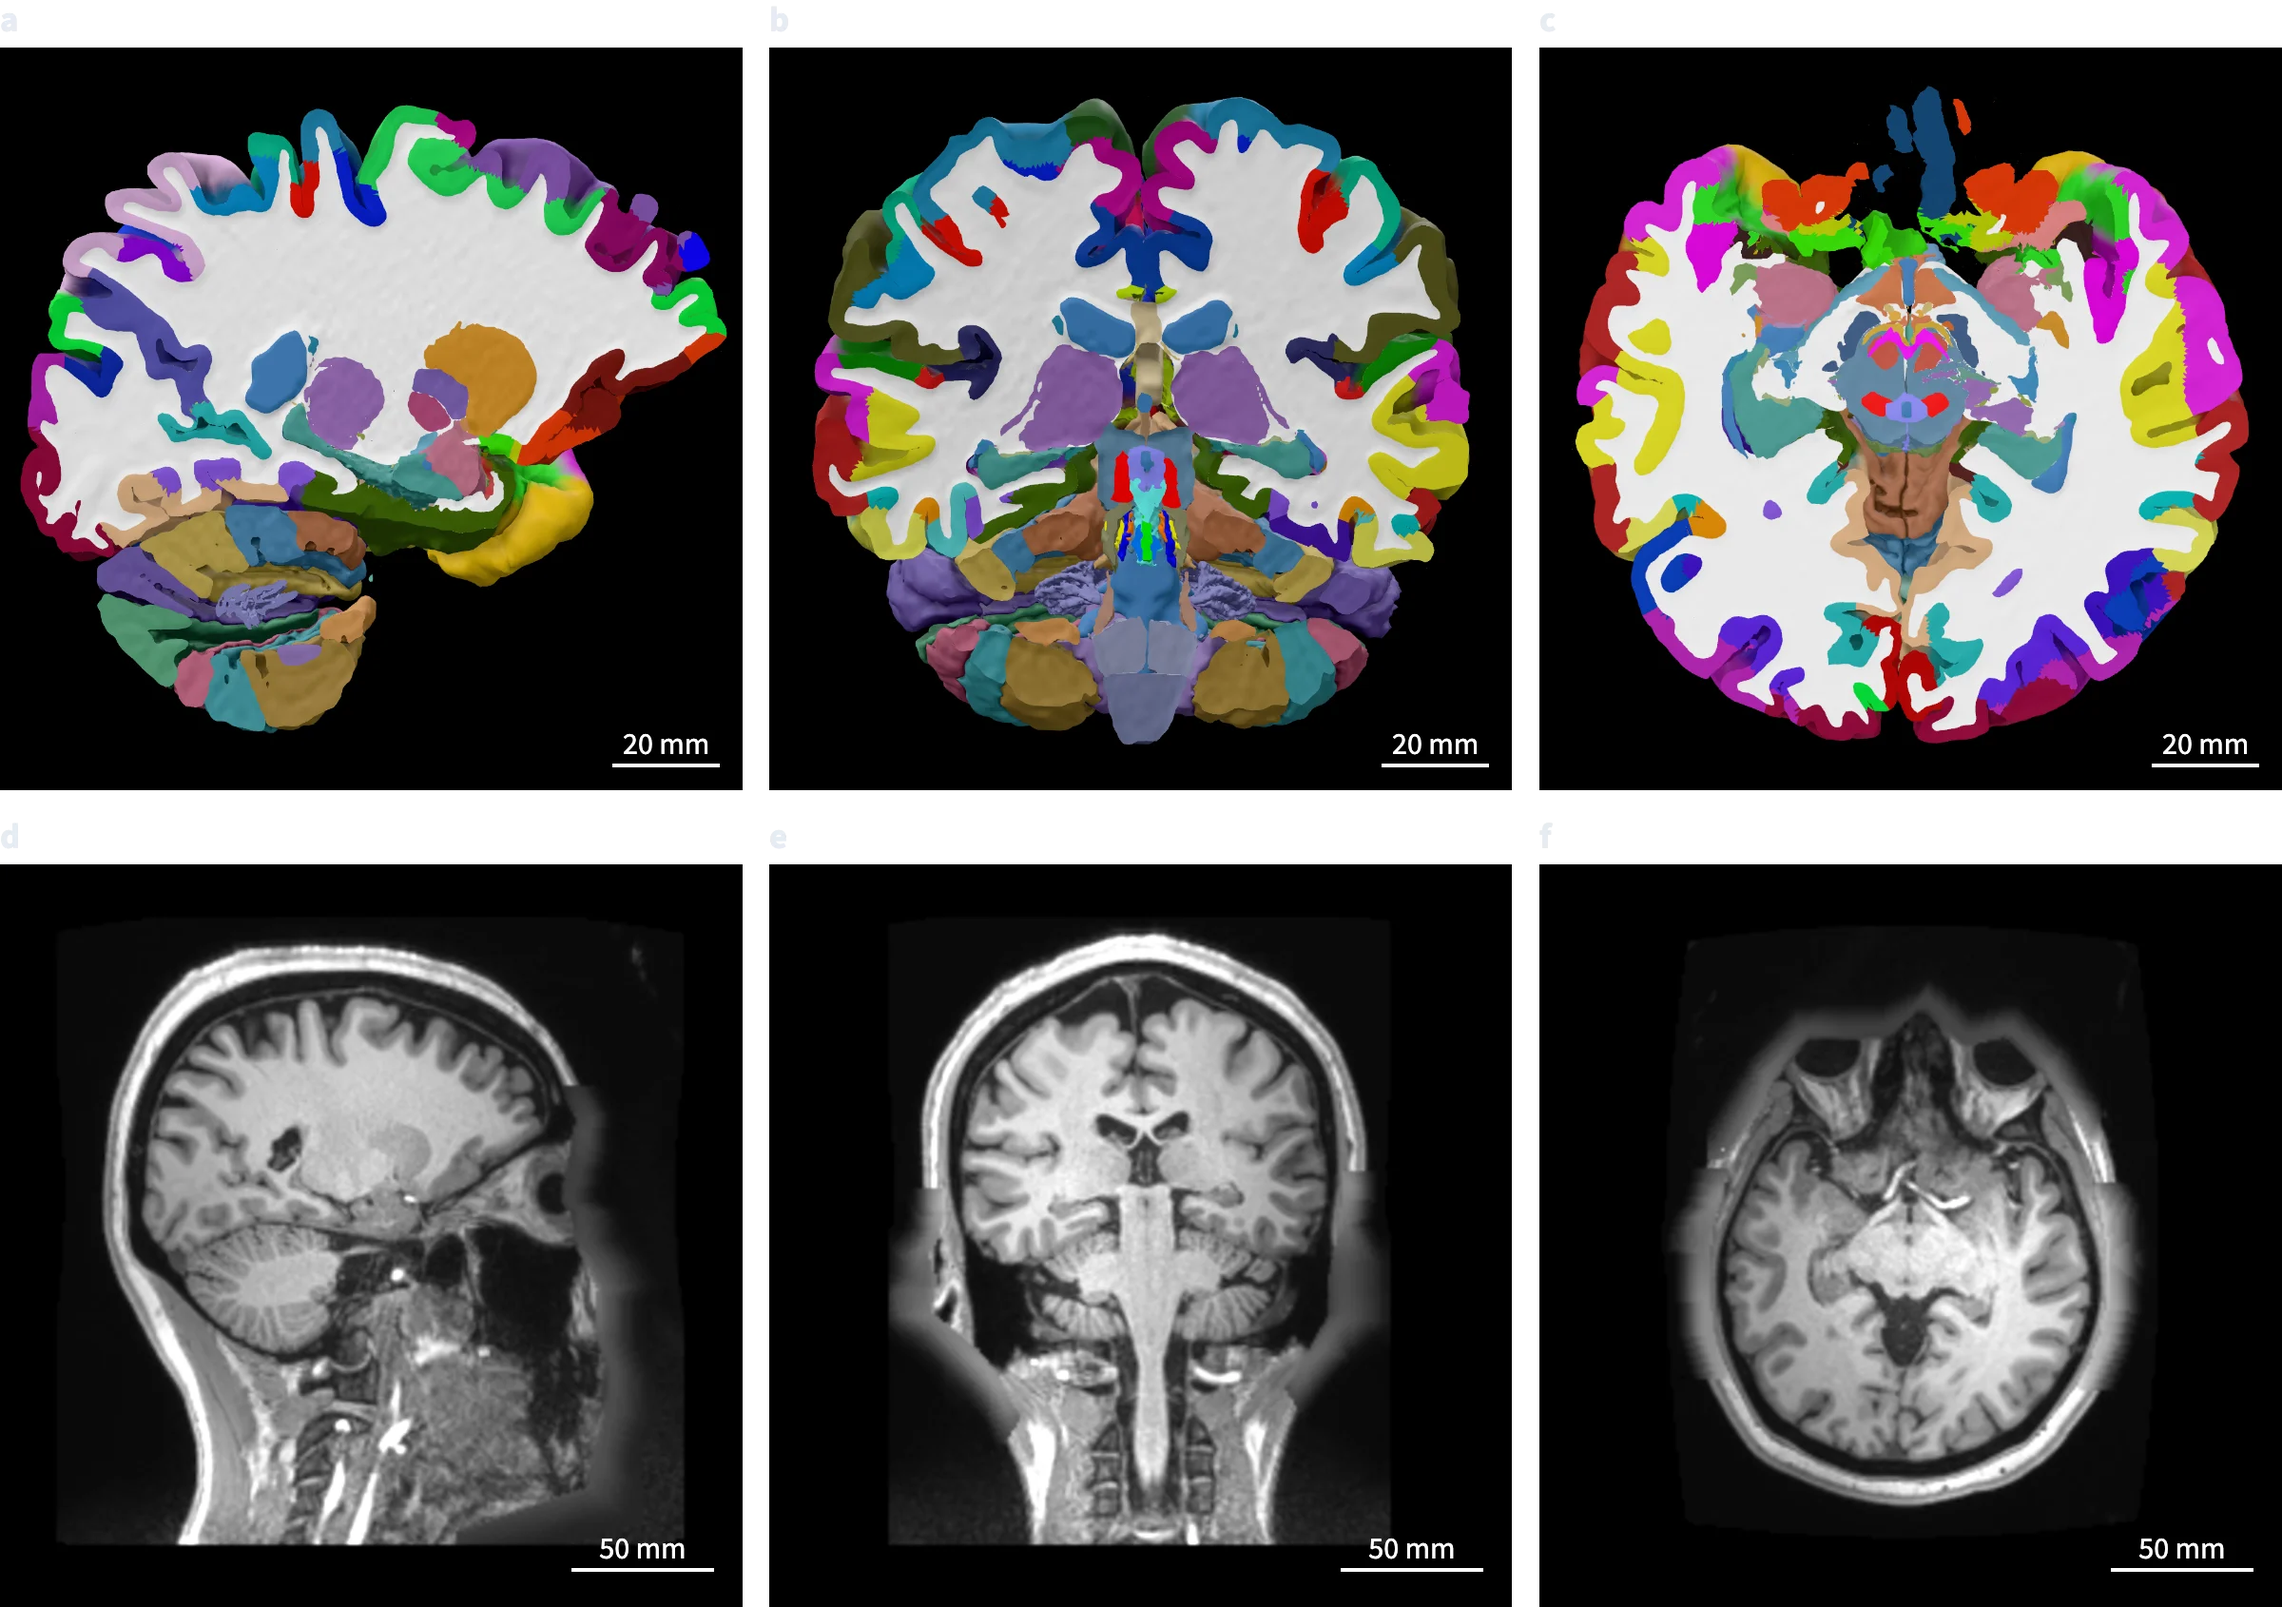
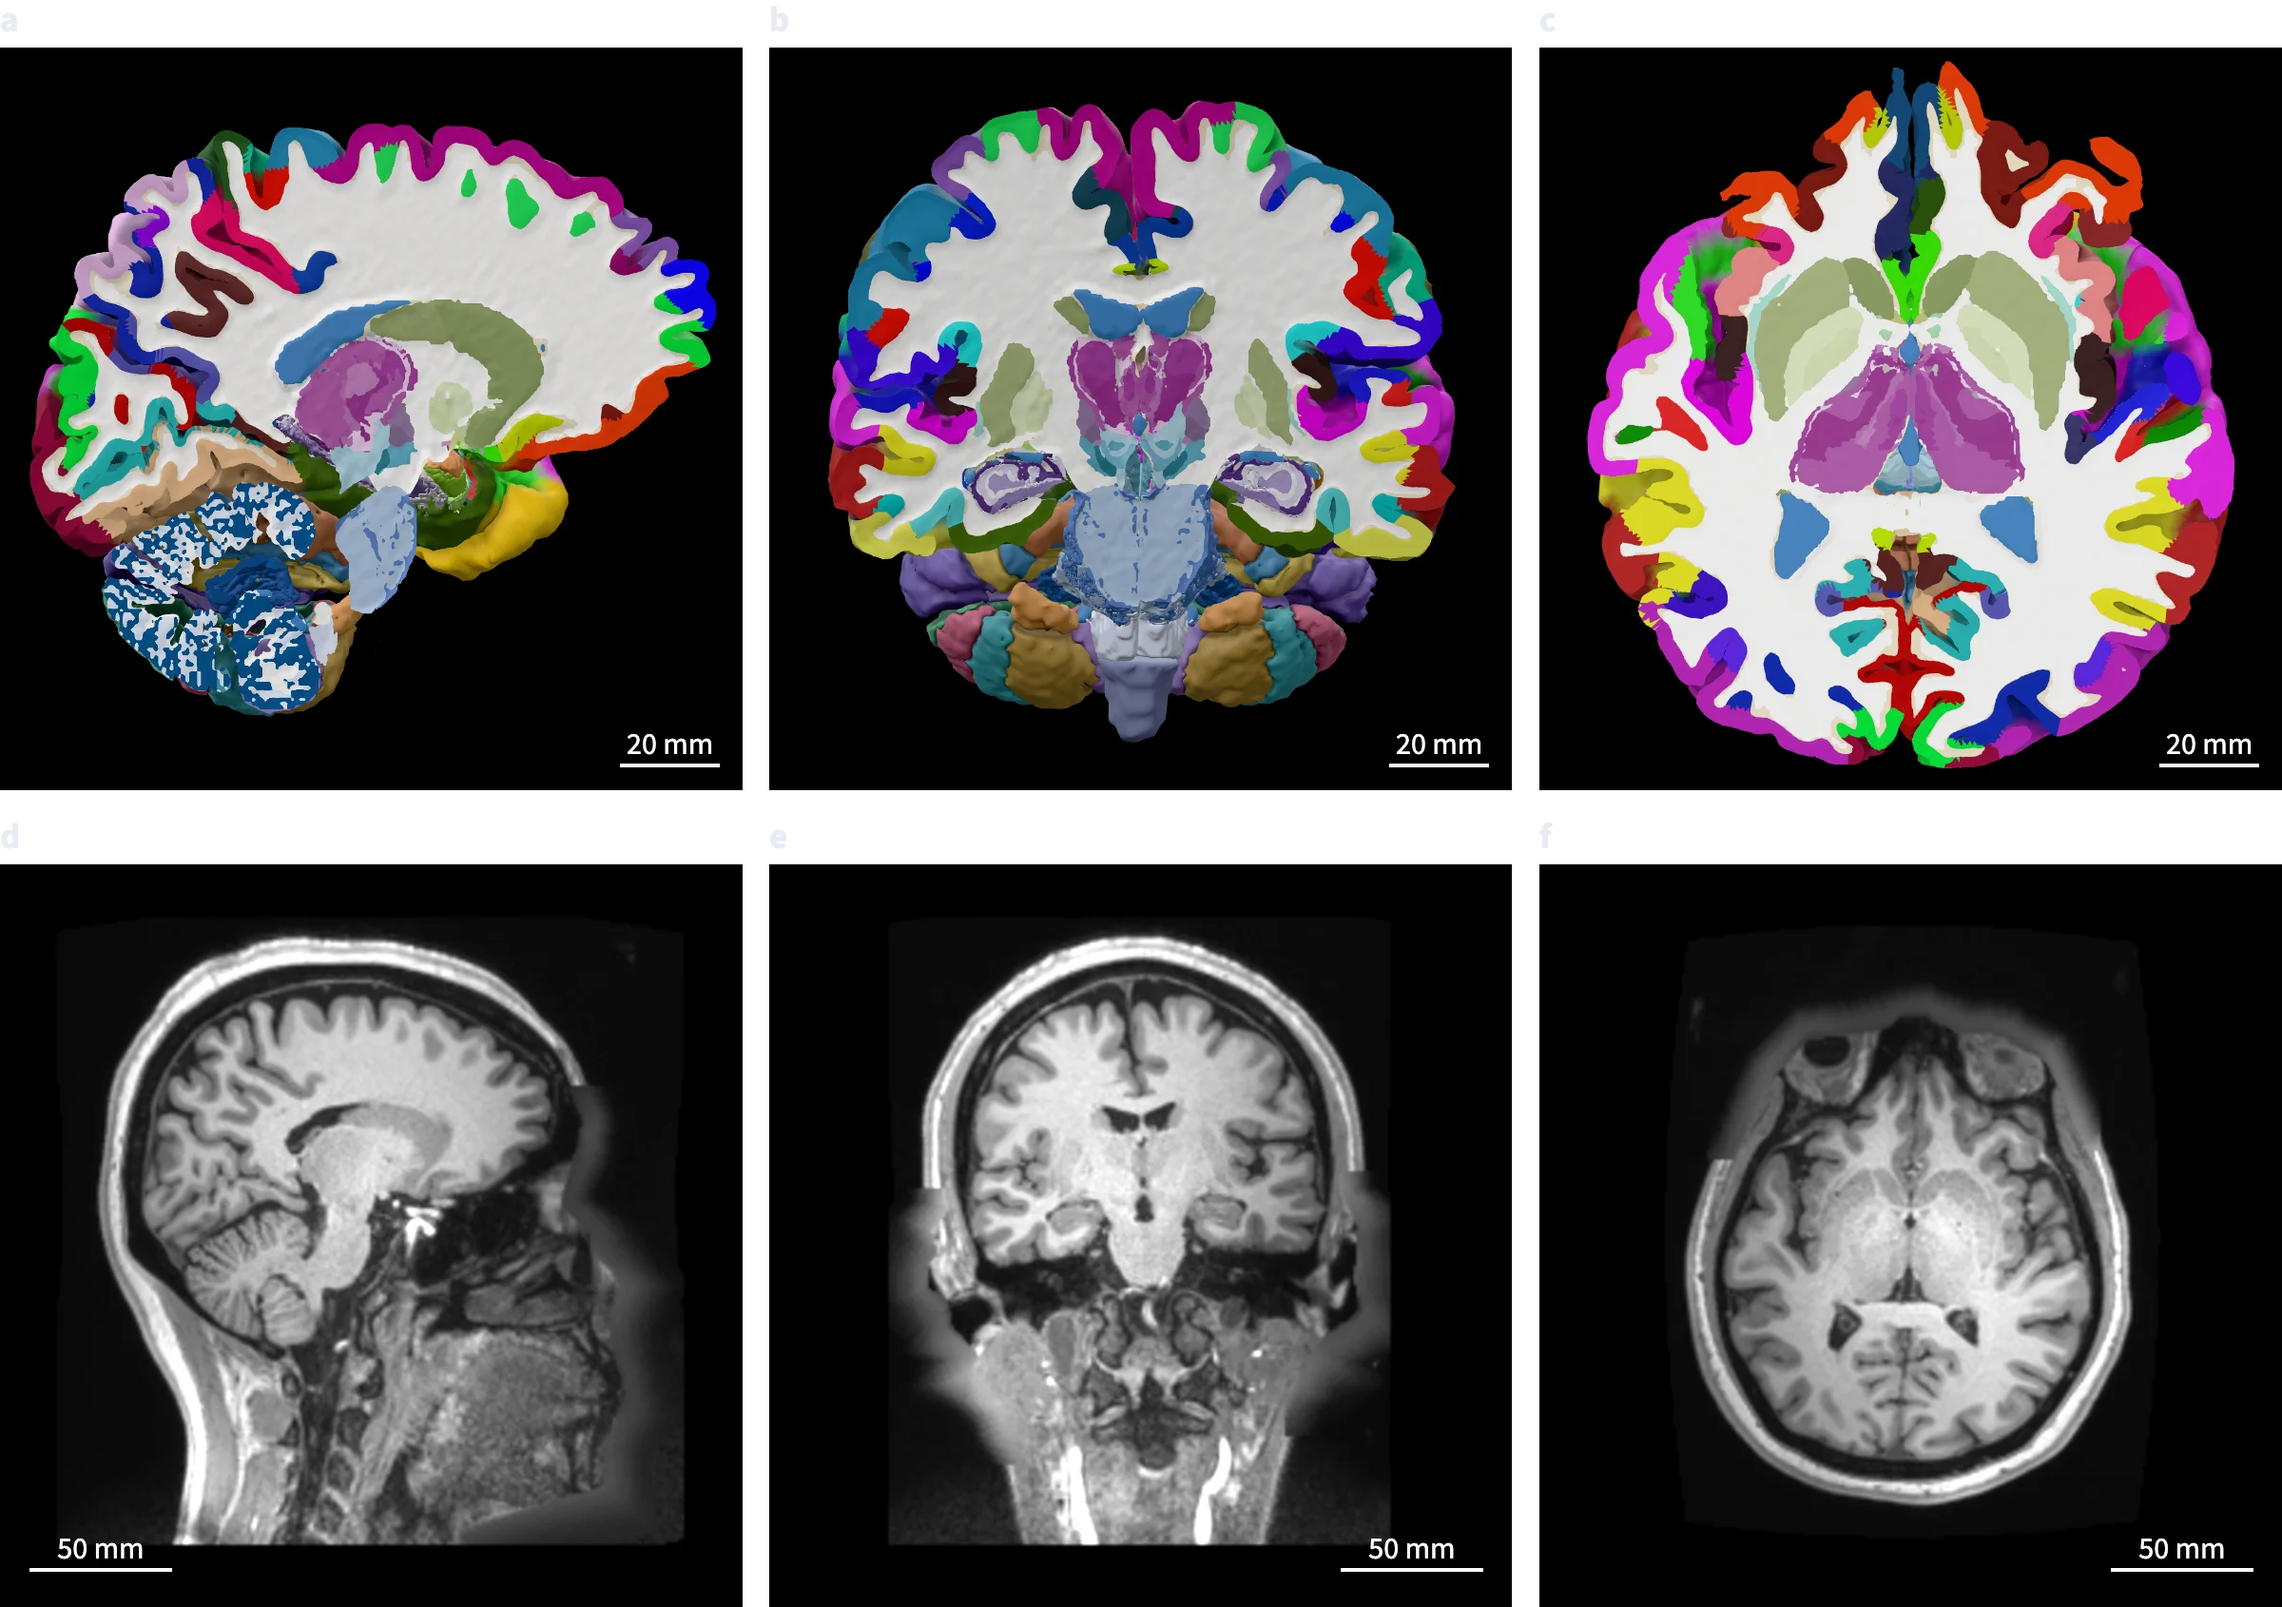
Render the section figures on NextBrain cuts
README Fig. 3 and sections-and-cuts Fig. 1 cut at x = -12, y = -4 and
z = 22 mm. These planes cross the most NextBrain structures without
fragmenting.

The oblique panel uses azimuth 90 degrees, along both hippocampi, with
anterior up. The default azimuth left the tip of the right temporal pole
as an island.

The docs figure shows the teaching set at y = -4 as its comparison panel.

diff --git a/docs/features/sections-and-cuts.md b/docs/features/sections-and-cuts.md
@@ -3,10 +3,10 @@
 The Section tool cuts the model with a sagittal, coronal, axial or oblique plane (Fig. 1a–d) and caps every closed solid where the plane meets it. The caps are the subject's own pial, white and structure surfaces, and each is coloured from a published integer label volume: the subject's 1 mm FreeSurfer grid or 0.8 mm blocks of its NextBrain segmentation. That volume is not chosen on its own. A cut shows inside what the stage shows outside, so its labels follow the masthead's **Atlas**, **Colour** and **Internal anatomy** ([Which labels a cut samples](#which-labels-a-cut-samples)). Nothing is re-segmented in the browser, and the HCP-MMP, Julich-Brain, Schaefer and Desikan-Killiany cut labels are projections of surface labels into the grey-matter ribbon, not volumetric atlases.
 
 ```{figure} figures/sections-and-cuts-1-light.webp
-:alt: Six cuts through one brain. Top row, a sagittal, a coronal and an axial cut, each with the cortical ribbon in Destrieux colours, white matter in white and the deep structures capped in colour. Bottom row, an oblique cut, the same coronal cut with NextBrain's deep labels inside the Destrieux ribbon, and the coronal cut coloured by arterial territory.
+:alt: Six cuts through one brain. Top row, a sagittal, a coronal and an axial cut, each with NextBrain's deep labels inside the Destrieux cortical ribbon and white matter in white. Bottom row, an oblique cut, the same coronal cut with the teaching set's FreeSurfer aseg labels inside the same ribbon, and the coronal cut coloured by arterial territory.
 :name: fig-sections-and-cuts-1
 
-**One plane takes four orientations and three label volumes.** **a**, [Sagittal cut](https://planumatlas.com/#anatomy=cdmd&lang=en&atlas=destrieux&detail=learning&cut=sagittal&pos=-26&view=right) at x = −26 mm, seen from the right. **b**, [Coronal cut](https://planumatlas.com/#anatomy=cdmd&lang=en&atlas=destrieux&detail=learning&cut=coronal&pos=-20&view=anterior) at y = −20 mm, seen from the front (the subject's right on the image's left). **c**, [Axial cut](https://planumatlas.com/#anatomy=cdmd&lang=en&atlas=destrieux&detail=learning&cut=axial&pos=8&view=superior) at z = 8 mm, seen from above (anterior up). **d**, [Oblique cut](https://planumatlas.com/#anatomy=cdmd&lang=en&atlas=destrieux&detail=learning&cut=oblique) through the origin at a tilt of 30° and an azimuth of 30°, in the default oblique view. **e**, [The coronal cut of **b**](https://planumatlas.com/#anatomy=cdmd&lang=en&atlas=destrieux&detail=nextbrain&cut=coronal&pos=-20&view=anterior) with **Internal anatomy** set to **NextBrain**, whose labels fill the cut inside the Destrieux ribbon. **f**, [The same cut](https://planumatlas.com/#anatomy=cdmd&lang=en&atlas=destrieux&detail=learning&colors=territory&cut=coronal&pos=-20&view=anterior) with **Colour** set to **Arterial territories**. In **a**–**d** the cut face samples the Destrieux label volume under **Colour** **Regions**. Positions are FreeSurfer surface RAS (right, anterior, superior) on CDMD `sub_013`, and the half-space on the positive side of each plane is removed. All panels share one scale. Scale bars apply at the depth of the camera's target.
+**One plane takes four orientations and three label volumes.** **a**, [Sagittal cut](https://planumatlas.com/#anatomy=cdmd&lang=en&atlas=destrieux&detail=nextbrain&cut=sagittal&pos=-12&view=right) at x = −12 mm, seen from the right. **b**, [Coronal cut](https://planumatlas.com/#anatomy=cdmd&lang=en&atlas=destrieux&detail=nextbrain&cut=coronal&pos=-4&view=anterior) at y = −4 mm, seen from the front (the subject's right on the image's left). **c**, [Axial cut](https://planumatlas.com/#anatomy=cdmd&lang=en&atlas=destrieux&detail=nextbrain&cut=axial&pos=22&view=superior) at z = 22 mm, seen from above (anterior up). **d**, [Oblique cut](https://planumatlas.com/#anatomy=cdmd&lang=en&atlas=destrieux&detail=nextbrain&cut=oblique&az=90&cam=-1.3,353.5,-185.6,-1.3,17.9,8.2,0,-0.5,-0.866) through the origin at a tilt of 30° from axial and an azimuth of 90°, which runs along both hippocampi, seen from above (anterior up). **e**, [The coronal cut of **b**](https://planumatlas.com/#anatomy=cdmd&lang=en&atlas=destrieux&detail=learning&cut=coronal&pos=-4&view=anterior) with **Internal anatomy** set to **Teaching set**, whose cut samples the Destrieux label volume and so shows FreeSurfer's aseg labels in the deep structures. **f**, [The same cut](https://planumatlas.com/#anatomy=cdmd&lang=en&atlas=destrieux&detail=nextbrain&colors=territory&cut=coronal&pos=-4&view=anterior) with **Colour** set to **Arterial territories**. In **a**–**d** **Internal anatomy** is **NextBrain** under **Colour** **Regions**, so NextBrain's labels fill the cut inside the Destrieux ribbon. NextBrain divides the cerebellar cortex into its granular (dark blue) and molecular (pale) layers. Positions are FreeSurfer surface RAS (right, anterior, superior) on CDMD `sub_013`, and the half-space on the positive side of each plane is removed. All panels share one scale. Scale bars apply at the depth of the camera's target.
 ```
 
 ## Data
@@ -72,7 +72,7 @@ The label volume a cut samples, its cut atlas, is derived from the display setti
 
 A rule whose atlas the build does not publish is skipped, and a surface atlas with no published labels is an error. The cut's labels therefore never disagree with the surface. Switching the atlas relabels an open cut. The Anatomy list, hover, selection, names on the brain, and the readout and paint of the linked magnetic resonance imaging (MRI) planes ([Linked MRI](linked-mri.md)) all read the same derived atlas. A region that the current labels leave off the cut says which control shows it (`other-colour` or `other-detail`), and revealing it from the Anatomy search changes that control.
 
-The cortical ribbon keeps the surface atlas's parcel solids under **NextBrain** (Fig. 1e), **Striatal networks** and **Cerebellar functions**, so the cut's cortex is the surface's. Only the arterial territories, which the surface also draws per vertex, label the ribbon voxel by voxel (Fig. 1f). Where the surface atlas's parcels cap the ribbon, a voxel that the sampled volume calls cortex (Destrieux's `kind: cortex`, NextBrain's reused Desikan-Killiany `ctx-` block) lies inside the white surface, and is drawn and named as white matter.
+The cortical ribbon keeps the surface atlas's parcel solids under **NextBrain** (Fig. 1a–d), **Striatal networks** and **Cerebellar functions**, so the cut's cortex is the surface's. Only the arterial territories, which the surface also draws per vertex, label the ribbon voxel by voxel (Fig. 1f). Where the surface atlas's parcels cap the ribbon, a voxel that the sampled volume calls cortex (Destrieux's `kind: cortex`, NextBrain's reused Desikan-Killiany `ctx-` block) lies inside the white surface, and is drawn and named as white matter.
 
 ### Label sampling
 

diff --git a/README.md b/README.md
@@ -72,10 +72,10 @@ Methods: [cortical atlases](https://planumatlas.com/docs/features/cortical-atlas
 
 <picture>
   <source media="(prefers-color-scheme: dark)" srcset=".github/assets/readme/sections-dark.webp">
-  <img src=".github/assets/readme/sections-light.webp" alt="Top row, sagittal, coronal and axial cuts through the brain with every structure capped in label colours. Bottom row, the subject's T1-weighted MRI in the same three planes.">
+  <img src=".github/assets/readme/sections-light.webp" alt="Top row, sagittal, coronal and axial cuts through the brain, the deep structures capped in NextBrain's histological label colours inside the Destrieux cortical ribbon. Bottom row, the subject's T1-weighted MRI in the same three planes.">
 </picture>
 
-<sub><b>Fig. 3 | A cut through the model and the subject’s own scan show the same planes.</b> <b>a–c</b>, <a href="https://planumatlas.com/#anatomy=cdmd&lang=en&atlas=destrieux&detail=learning&cut=sagittal&pos=-20&view=right">Sagittal</a> (x = −20 mm, seen from the right), <a href="https://planumatlas.com/#anatomy=cdmd&lang=en&atlas=destrieux&detail=learning&cut=coronal&pos=-20&view=anterior">coronal</a> (y = −20 mm, from the front) and <a href="https://planumatlas.com/#anatomy=cdmd&lang=en&atlas=destrieux&detail=learning&cut=axial&pos=12&view=superior">axial</a> (z = 12 mm, from above) cuts. Each structure is capped where the plane meets it, and the cortical ribbon is coloured from the Destrieux label volume. <b>d–f</b>, The T1-weighted scan in the same planes, as <b>Linked MRI</b> draws them from each cut, over its 256 mm field of view. The coronal plane is in the radiological convention (the subject’s right on the image’s left) and the axial plane in the neurological convention. Positions are FreeSurfer surface RAS. Scale bars in <b>a–c</b> apply at the depth of the camera’s target.</sub>
+<sub><b>Fig. 3 | A cut through the model and the subject’s own scan show the same planes.</b> <b>a–c</b>, <a href="https://planumatlas.com/#anatomy=cdmd&lang=en&atlas=destrieux&detail=nextbrain&cut=sagittal&pos=-12&view=right">Sagittal</a> (x = −12 mm, seen from the right), <a href="https://planumatlas.com/#anatomy=cdmd&lang=en&atlas=destrieux&detail=nextbrain&cut=coronal&pos=-4&view=anterior">coronal</a> (y = −4 mm, from the front) and <a href="https://planumatlas.com/#anatomy=cdmd&lang=en&atlas=destrieux&detail=nextbrain&cut=axial&pos=22&view=superior">axial</a> (z = 22 mm, from above) cuts with <b>Internal anatomy</b> set to <b>NextBrain</b>. Each structure is capped where the plane meets it, the deep structures in NextBrain’s histological labels and the cortical ribbon in the Destrieux label volume. NextBrain divides the cerebellar cortex into its granular (dark blue) and molecular (pale) layers. <b>d–f</b>, The T1-weighted scan in the same planes, as <b>Linked MRI</b> draws them from each cut, over its 256 mm field of view. The coronal plane is in the radiological convention (the subject’s right on the image’s left) and the axial plane in the neurological convention. Positions are FreeSurfer surface RAS. Scale bars in <b>a–c</b> apply at the depth of the camera’s target.</sub>
 
 Cuts are sagittal, coronal, axial or oblique at any angle (Fig. 3a–c). Cap colours come from the label volumes and follow the display, so the **Atlas**, **Colour** and **Internal anatomy** choices put Destrieux, Desikan-Killiany, HCP-MMP, Julich-Brain, Schaefer, NextBrain, arterial, cerebellar or striatal labels on the same cut. **Linked MRI** opens the scan in three planes around a shared crosshair (Fig. 3d–f), or as a series of sections of one plane, with window and level, the segmentation’s or the 3D view’s colours, the selected region outlined, the label at the crosshair and PNG export. It also opens from the profile of a function or a deficit and draws that paint on the scan.
 
